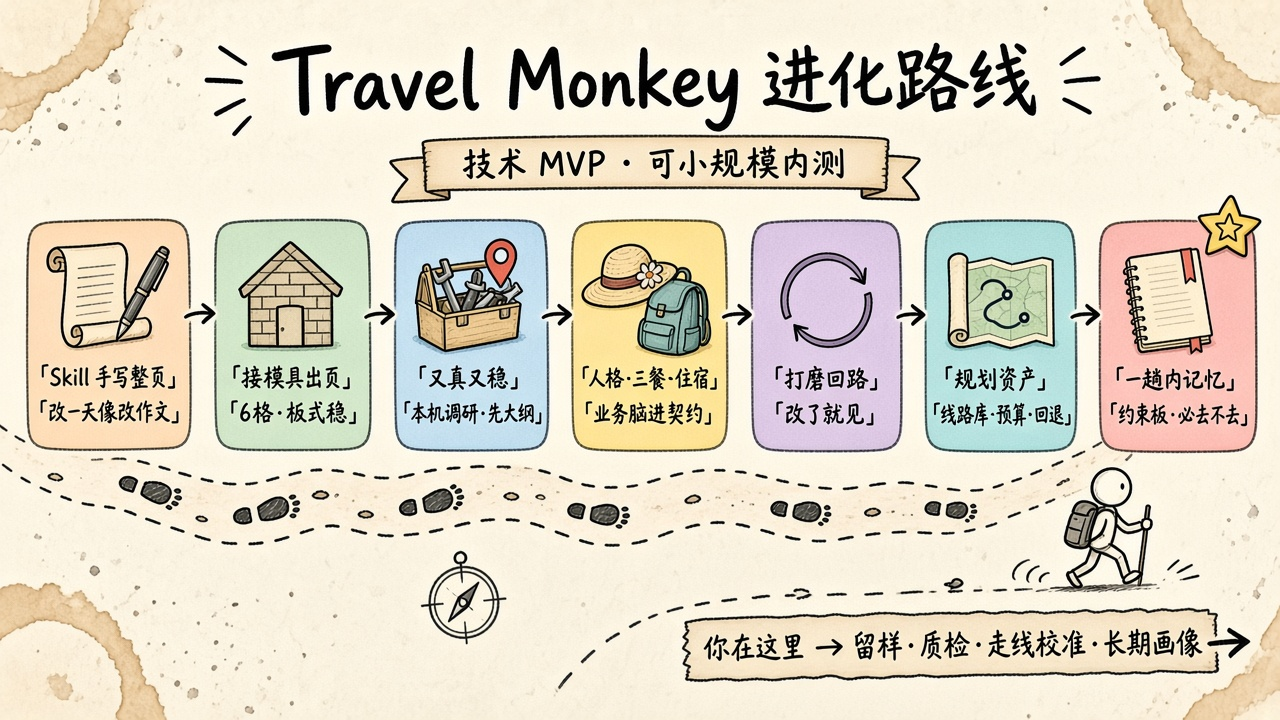
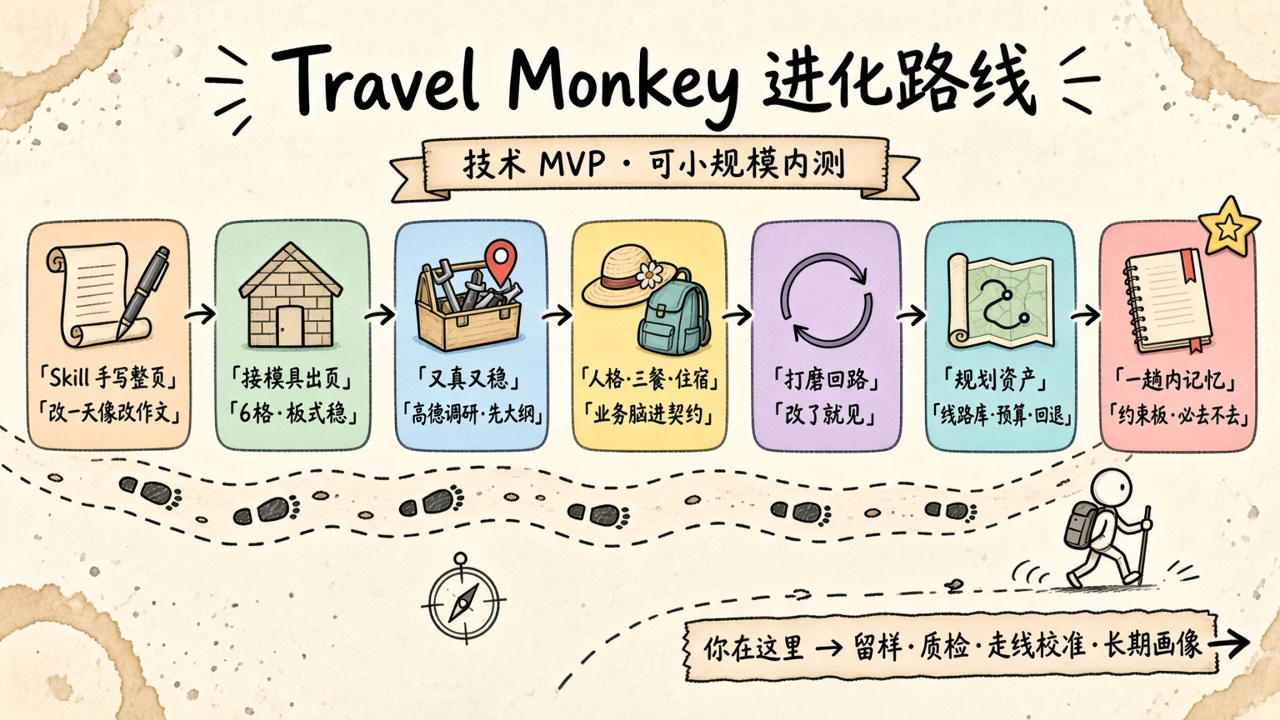
docs: 去掉易误读的「本机」，统一为程序 / 服务端 / 浏览器本地
路线图与 README 同步；CAPABILITY 补用词约定，说明程序不绑定开发者电脑。

diff --git a/docs/MEMORY.md b/docs/MEMORY.md
@@ -25,7 +25,7 @@
 
 | 锚点 | 典型证据 |
 |---|---|
-| 高 | 以结构化事实（`trip` JSON）为唯一来源，每轮压成短摘要；可按天裁剪；按模式挂不同提示词；能本机落表就不打模型；上下文长度不随轮数线性增长 |
+| 高 | 以结构化事实（`trip` JSON）为唯一来源，每轮压成短摘要；可按天裁剪；按模式挂不同提示词；能用程序落表就不打模型；上下文长度不随轮数线性增长 |
 | 低 | 每轮塞全量历史或整页 HTML；旧版本点名混进历史导致改错；摘要里缺硬约束 |
 
 可上线门槛：8.0。
@@ -75,7 +75,7 @@
 
 - `trip` JSON 为唯一事实源，`digestTrip` 每轮压成短摘要，可按天裁（`opts.day`）。
 - 分模式提示词：PLAN / FILL / TALK / EDIT / LOOK，互不串台。
-- 调研只做一次，改天不重跑；能本机落表（同步、第 N 格、新增点）就不打模型。
+- 调研只做一次，改天不重跑；能用程序落表（同步、第 N 格、新增点）就不打模型。
 - 抱怨或「继续优化」时回放最近几句用户原话（`requestPack`）。
 - 版本回退：内存近 10 版，`localStorage` 近 5 版。
 
@@ -93,7 +93,7 @@
 依据：
 - `src/lib/session.ts`：IndexedDB `travel-monkey`，`sessions` 表存全量、`meta` 表只存列表项；当前会话 ID 记在 `localStorage` 的 `ct.session`；无痕模式打不开库时退化为只在内存。
 - `src/App.tsx`：启动时按 `ct.session` 恢复对话（丢掉生成中的半截气泡）、大纲、人格、调研、当前行程与页面、约束、版本；空闲 400ms 自动存，切换 / 新建前先立刻存一次；版本改存进会话（近 10 版），旧 `ct.versions` 首次存盘后删除；左栏会话条「历史下拉 + 新建行程 + 删除」。
-- `src/lib/memory.ts`：约束板九类（同行、身体、忌口、日期、天数、出发地、交通、住宿、预算），正则本机抽取，问句不抽，「第 N 天」不当天数；天数 / 日期 / 预算 / 出发地 / 交通只留最新，人数换新时「带老人」之类并存；封顶 12 条。
+- `src/lib/memory.ts`：约束板九类（同行、身体、忌口、日期、天数、出发地、交通、住宿、预算），用正则抽取，问句不抽，「第 N 天」不当天数；天数 / 日期 / 预算 / 出发地 / 交通只留最新，人数换新时「带老人」之类并存；封顶 12 条。
 - 注入：`runPlan` / `runFill` 在调研后插一对约束消息；`recentChat` 把约束块放在行程摘要前（覆盖 TALK / EDIT / 有行程的 LOOK）；无行程的 LOOK 也带。`EDIT_SYSTEM` 加可选 `facts`，`extractEnvelope` 透出，`runEdit` 合并。
 - 证据：golden 96/96（新增 23 条：抽取、合并、删除、模型 facts、会话判空与标题）；浏览器实测（mock 模型）三轮后第三次请求含「膝盖不好 / 不吃辣 / 6人 / 4天3晚」，刷新后 6 条气泡与 4 条约束原样恢复，新建后清空、切回后复原，删一条约束刷新后仍是删掉的。
 
@@ -105,7 +105,7 @@
 | 多轮会话管理 | 8.0 | +4.0：刷新不失忆、多会话可切可删；服务端会话（M7）未做 |
 | **均值** | **6.3** | 单机多会话可用；跨设备与长期画像不可用 |
 
-剩余缺口：3.2-2 窗口外的软偏好、3.2-5 不记人；本机正则只认常见说法（例如「我妈腿脚不便」能抽，「我妈不太能走」抽不到），靠模型 `facts` 补，但目前只有 EDIT 回 `facts`，PLAN 阶段没有模型补抽。
+剩余缺口：3.2-2 窗口外的软偏好、3.2-5 不记人；程序的正则只认常见说法（例如「我妈腿脚不便」能抽，「我妈不太能走」抽不到），靠模型 `facts` 补，但目前只有 EDIT 回 `facts`，PLAN 阶段没有模型补抽。
 
 ## 3c. 快照 · 2026-10-02（短期记忆冲 8：M4 + M5 + 否决 / 改口 / 补抽 / 多轮回归）
 
@@ -114,15 +114,15 @@
 | 差距 | 补法 | 落点 |
 |---|---|---|
 | 软偏好（「偏人文」「想拍日出」）大纲没写就丢 | PLAN / FILL 带「本趟用户之前说过的话」：只摘用户原话，点选答复只留选项，从新往旧装满约 600 字 | `src/lib/context.ts`（`userPack`） |
-| 否决过的点会回来 | 约束板加「必去 / 不去」；出大纲、出页后本机查（简称认全称：「熊猫基地」认得出「成都大熊猫繁育研究基地」），撞了自动打回一次；改表撞了在回执里提醒 | `src/lib/memory.ts`（`avoidHits` / `planAvoidHits` / `namesHitAvoid`）＋`App.tsx` |
+| 否决过的点会回来 | 约束板加「必去 / 不去」；出大纲、出页后程序查（简称认全称：「熊猫基地」认得出「成都大熊猫繁育研究基地」），撞了自动打回一次；改表撞了在回执里提醒 | `src/lib/memory.ts`（`avoidHits` / `planAvoidHits` / `namesHitAvoid`）＋`App.tsx` |
 | 约束只能加不能撤 | 认改口：「能吃辣了」「老人不去了」「不带老人」「不需要电梯」「还是去 X / 加上 X / 保留 X」；必去与不去互斥，后说的赢 | `extractDrops` / `dropFacts` / `mergeFacts` |
-| 抽取面窄 | 文本附件前 3000 字也抽；点选答复只抽「→」后的用户选项；PLAN / TALK 末尾约定「记下：k=v；作废=k:v」一行，本机解析后从显示里摘掉；EDIT 的 `facts` 支持 `drop` | `takeMemo` / `modelDrops`＋`server/skill-prompt.mjs`（`MEMO_RULE`） |
-| 窗口外没摘要 | 本机滚动摘要：窗口外只留用户原话和「已写入页面」的改动，从新往旧装满约 300 字，放在约束块后、行程摘要前；从持久化的对话现算，不另存 | `earlierDigest` / `splitWindow` / `buildChatMessages` |
+| 抽取面窄 | 文本附件前 3000 字也抽；点选答复只抽「→」后的用户选项；PLAN / TALK 末尾约定「记下：k=v；作废=k:v」一行，程序解析后从显示里摘掉；EDIT 的 `facts` 支持 `drop` | `takeMemo` / `modelDrops`＋`server/skill-prompt.mjs`（`MEMO_RULE`） |
+| 窗口外没摘要 | 程序滚动摘要：窗口外只留用户原话和「已写入页面」的改动，从新往旧装满约 300 字，放在约束块后、行程摘要前；从持久化的对话现算，不另存 | `earlierDigest` / `splitWindow` / `buildChatMessages` |
 | 拼消息的逻辑测不到 | 抽成纯函数 `buildPlanMessages` / `buildFillMessages` / `buildChatMessages`，golden 按多轮脚本逐轮核对 | `src/lib/context.ts` |
 
 证据：
 - golden 121/121，新增 25 条多轮脚本：第 3 轮出大纲同时带硬约束和软偏好原话；否决的点全称也查得出、复述「不去」不误报；改口撤约束且「不带老人」不会反被记成「带老人」；「记下：」行摘掉并生效；附件备注、点选答复只抽用户选项；第 13 轮还记得第 1 轮说的店；50 轮后上下文长度不线性增长（< 1400 字）。
-- 浏览器实测（mock 模型）：大纲回复里的「记下：忌口=不吃香菜」不显示、上了约束板；说「不去熊猫基地」后模型大纲又排了「成都大熊猫繁育研究基地」，本机自动打回，最终显示的是换掉后的版本；「其实老人不去了」后「带老人」从约束板消失。3b 的刷新恢复、新建 / 切换、删约束回归全过。
+- 浏览器实测（mock 模型）：大纲回复里的「记下：忌口=不吃香菜」不显示、上了约束板；说「不去熊猫基地」后模型大纲又排了「成都大熊猫繁育研究基地」，程序自动打回，最终显示的是换掉后的版本；「其实老人不去了」后「带老人」从约束板消失。3b 的刷新恢复、新建 / 切换、删约束回归全过。
 
 | 子维度 | 分 | 变化 |
 |---|---|---|
@@ -132,11 +132,11 @@
 | 多轮会话管理 | 8.0 | 不变 |
 | **均值** | **6.5** | |
 
-\* 本机证据只能证明「该带的都发出去了」，证明不了「模型照做了」。M9 真模型留样过了才算正式跨到 8；留样前对外按 7.5 报。
+\* 本地测试的证据只能证明「该带的都发出去了」，证明不了「模型照做了」。M9 真模型留样过了才算正式跨到 8；留样前对外按 7.5 报。
 
 仍知的边界：
 - 正则仍只认常见说法（「我妈不太能走」抽不到），靠模型「记下：」行补，补不补取决于模型守不守约。
-- 滚动摘要是本机摘录，不是语义摘要：用户原话里有的能找回，只在模型长回复里出现过的店名找不回。
+- 滚动摘要是程序摘录，不是语义摘要：用户原话里有的能找回，只在模型长回复里出现过的店名找不回。
 - 简称认全称按「字按顺序都在」判断，3 字以上才启用；2 字的否决（「锦里」）只按包含判断。
 
 ---
@@ -148,14 +148,14 @@
 | 工作记忆 | `trip` JSON | 会话内 | `digestTrip`（已有） |
 | 会话约束 | 本趟硬约束：人数、同行、忌口、身体、预算、出发地、日期、交通、住宿偏好 | 会话内，结构化 `constraints[]` | 每轮固定放在最前，约 100 字 |
 | 会话历史 | 对话、大纲、调研、版本、阶段 | IndexedDB；上云后放服务端 | 最近几条原文 + 更早部分的滚动摘要 |
-| 长期画像 | 人格、忌口、住宿档位、常住片区 | 本机；有账号后放数据库 | 新行程开始时注入；用户确认才写 |
+| 长期画像 | 人格、忌口、住宿档位、常住片区 | 浏览器本地；有账号后放数据库 | 新行程开始时注入；用户确认才写 |
 
 原则：
 
 1. **事实结构化，不靠原文**。约束写成「类别 + 值 + 来源」，不是把用户原话塞进去。
 2. **每轮都带，但很短**。约束块封顶 16 条、按类别一行。
 3. **用户能看、能删**。约束和画像都要在界面上露出来，删了就不再进上下文。
-4. **本机抽取兜底，模型抽取补充**。正则先抽常见项（零成本、可测）；模型在已有 JSON 回复里顺手回 `facts`，不另起一轮。
+4. **程序抽取兜底，模型抽取补充**。正则先抽常见项（零成本、可测）；模型在已有 JSON 回复里顺手回 `facts`，不另起一轮。
 5. **宁少勿错**。抽不准的不记；一次性的事不进长期画像。
 
 ---
@@ -164,7 +164,7 @@
 
 | 框架 | 结论 | 理由 |
 |---|---|---|
-| LangChain | 不用 | 它的对话记忆解决「把历史拼进提示词」，本项目已用领域摘要做得更好；核心价值在本机规则、校验、落表，框架帮不上，反而加依赖。服务端是零框架 `.mjs`，部署简单是优点 |
+| LangChain | 不用 | 它的对话记忆解决「把历史拼进提示词」，本项目已用领域摘要做得更好；核心价值在程序规则、校验、落表，框架帮不上，反而加依赖。服务端是零框架 `.mjs`，部署简单是优点 |
 | LangGraph | 现在不用，满足条件再上 | 流程本身就是状态图（调研 → 大纲 → 待确认 → 填表 → 校验 → 修表 → 改稿循环），检查点 / 中断 / 线程正好对应会话持久化 / 等用户确认 / 多会话。但当前编排在浏览器，模型不调工具，硬套只是换写法 |
 | 向量库 | 现在不用 | 画像是十几个结构化字段；向量检索留给线路库召回 |
 
@@ -184,9 +184,9 @@
 |---|---|---|---|---|---|
 | M1 | **会话持久化**：`Session { id, stage, bubbles, trip, html, planDraft, persona, research, constraints, versions }` 存 IndexedDB，状态变化即存，打开页面恢复最近一次会话 | 3.2-3、3.2-6 | 刷新后对话、大纲、调研、当前页、版本、约束都在，阶段不变；旧 `ct.versions` 自动迁入 | 多轮 4→7 | ✓ 10-02 |
 | M2 | **多会话**：新建行程、历史行程切换、删除 | 3.2-4 | 新建不刷新；切换后各自状态独立；删除即清 | 多轮 7→8 | ✓ 10-02 |
-| M3 | **约束板**：本机抽取 + 模型在 EDIT 回复里带 `facts`；每轮（PLAN / FILL / TALK / EDIT / LOOK）注入；界面可见可删 | 3.2-1、3.2-2 | 第一轮说「膝盖不好、不吃辣、6 个人」，第三轮改天数，发给模型的消息里三条都在；删掉一条后不再出现；golden 覆盖抽取与合并 | 短期 5→7，上下文 7.5→8 | ✓ 10-02 |
+| M3 | **约束板**：程序抽取 + 模型在 EDIT 回复里带 `facts`；每轮（PLAN / FILL / TALK / EDIT / LOOK）注入；界面可见可删 | 3.2-1、3.2-2 | 第一轮说「膝盖不好、不吃辣、6 个人」，第三轮改天数，发给模型的消息里三条都在；删掉一条后不再出现；golden 覆盖抽取与合并 | 短期 5→7，上下文 7.5→8 | ✓ 10-02 |
 | M4 | **规划阶段带用户原话**：PLAN 带上本趟用户说过的话（只要用户的，不要模型长文），封顶约 600 字 | 3.2-1 | 约束板之外的软偏好（「想拍日出」）在改大纲时不丢 | 短期 7→7.5 | ✓ 10-02（另补否决 / 改口 / 补抽，见 3c） |
-| M5 | **滚动摘要**：窗口外部分压成短摘要（本机摘录版：用户原话 + 已落页改动，约 300 字，从持久化对话现算） | 3.2-2 | 第 10 轮问「我前面说的那家店」能答上；上下文长度不随轮数线性涨 | 短期 7.5→8 | ✓ 10-02（本机版；语义摘要待 M9 留样后再定） |
+| M5 | **滚动摘要**：窗口外部分压成短摘要（程序摘录版：用户原话 + 已落页改动，约 300 字，从持久化对话现算） | 3.2-2 | 第 10 轮问「我前面说的那家店」能答上；上下文长度不随轮数线性涨 | 短期 7.5→8 | ✓ 10-02（程序版；语义摘要待 M9 留样后再定） |
 | M6 | **长期画像**：行程结束或手动「记住我」时，用户确认后写入人格、忌口、档位、常住片区；新行程开场注入；可看可删 | 3.2-5 | 新建行程不再问人格（已记住时）；删画像后不再注入；一次性约束不进画像 | 长期 2→6 | ○ |
 | M7 | **服务端会话服务**（部署腾讯云前）：编排从 `App.tsx` 抽到服务端，接口按会话 ID；前端只展示 | 为上云与 LangGraph 铺路 | 两台浏览器同账号看到同一会话；服务重启不丢 | 多轮 8→9 | ○ |
 | M8 | **评估是否迁 LangGraph**：按第 5 节触发条件复核 | — | 写结论进本文快照 | — | ○ |

diff --git a/docs/EVAL.md b/docs/EVAL.md
@@ -24,7 +24,7 @@
 
 ## 评测对象
 
-- **产品**：Travel Monkey（仓库目录 `travel-monkey-agent`）——行程页生产工作台：模型填 trip JSON，本机调研、交通、配图、主题、校验。
+- **产品**：Travel Monkey（仓库目录 `travel-monkey-agent`）——行程页生产工作台：模型填 trip JSON，程序负责调研、交通、配图、主题、校验。
 - **阶段标签**：技术 MVP / 内部 Demo；尚未进入人格化产品期。
 - **总判断**：骨架强，业务脑弱。路径、景点、三餐、住宿是四件独立业务；住宿不是餐饮附属。
 
@@ -152,7 +152,7 @@
 
 必须同时回答：
 
-1. **工程**：6 格模具、模型填表、本机工具——是否省 token、可校验、可分享。
+1. **工程**：6 格模具、模型填表、程序工具——是否省 token、可校验、可分享。
 2. **产品**：同一套观光日是否服务得了三类人；住宿是否被当成餐饮附属；能力写在渲染层还是规划契约。
 3. **业务**：四件业务是否各有字段，还是挤进 6 格凑数。
 
@@ -243,7 +243,7 @@
 ### 下一阶段杠杆（复评时对照是否还成立）
 
 1. P0 规划人格（旅居 / 带队 / 探秘）+ 入住规则 — **PLAN/FILL 契约已落地人格**（入住规则未做）  
-2. P0 三餐一等公民（强制早/午/晚）— **契约 + 本机补齐已落地，分数待复评**  
+2. P0 三餐一等公民（强制早/午/晚）— **契约 + 程序补齐已落地，分数待复评**  
 3. P0 住宿一等公民（片区对齐 stay；适老 / 连住 / 集合点）  
 4. P1 线路标签与按人格选交通  
 5. P2 顾问式对话；配图只保名点，酒店图与名点图分开  
@@ -317,7 +317,7 @@
 
 | 维度 | 当前 | 变化 | 勾上的锚点 |
 |---|---|---|---|
-| 标准化 | 8.0 | 持平 | golden 回归集是稳定性证据；质检清单仍薄，FILL 字段靠本机补，暂不加分 |
+| 标准化 | 8.0 | 持平 | golden 回归集是稳定性证据；质检清单仍薄，FILL 字段靠程序补，暂不加分 |
 | 旅行专业性 | 6.5 | ↑1.0 | 线路库 20 条全有代表性/难度分，FILL 强引用（代表性≥4 星必看不漏） |
 | 实用性 | 7.2 | ↑0.4 | 无 Key 诚实降级（模型记忆参考＋设置页注记）；版本持久化＋下拉回退 |
 | 稳定性 | 7.5 | ↑0.7 | golden 18 项离线可跑；城际段不再按邻点步行硬算 |
@@ -348,8 +348,8 @@
 
 ### 补丁健壮性专轮备注（2026-09-30 深夜，不改分）
 - 前一轮修的是"话被送错车道"，这一轮是"车到了但货卸不下来"：改表只认 `{day,slot,set:{name}}` 一种形状。模型把值平铺成 `{day,slot,name}`（极常见）→ 判「没有 set」整条丢弃；餐、规划条同病。
-- 更要命的一类：模型只回一句「我已经把第二天的人头山换成翠华山了」而不给补丁。本机照实什么都不改，还把模型那句假话原样转给用户——"模型输出了结果、页面没更新"的完整成因。
-- 三层修：①平铺补丁照收（`liftSet`）；②模型口头声称/反问/回纯文本时，按用户原话本机兜底改（`inferEditFrom`）；③一个补丁都没落地时不转述「已改好」（`stripEditClaim`），只说「这次没有改到页面上」并给可用句式。顺带修掉 `把day2的人头山换成X` 里定位词带「的」导致找不到格子的老问题。
+- 更要命的一类：模型只回一句「我已经把第二天的人头山换成翠华山了」而不给补丁。程序照实什么都不改，还把模型那句假话原样转给用户——"模型输出了结果、页面没更新"的完整成因。
+- 三层修：①平铺补丁照收（`liftSet`）；②模型口头声称/反问/回纯文本时，按用户原话程序兜底改（`inferEditFrom`）；③一个补丁都没落地时不转述「已改好」（`stripEditClaim`），只说「这次没有改到页面上」并给可用句式。顺带修掉 `把day2的人头山换成X` 里定位词带「的」导致找不到格子的老问题。
 - 按纪律：bugfix 不加分。但"改表对模型输出格式的容错"是 EDIT 链能不能用的底线，golden 41→49 全覆盖。
 
 ### 意图路由专轮备注（2026-09-30 晚，不改分）
@@ -360,12 +360,12 @@
 
 ### 改天必见专轮备注（2026-09-30，不改分）
 - 根因：`normalizeTrip` 的 overview 只建不刷——首轮进 trip state 后，改某天格子只变 days，顶部"线路/景点/入住/餐饮"卡片永远旧名；气泡却照说"已写入页面"（补丁确实进了表）。现每次从 days 全量重建，复现脚本已验证。
-- 同轮诚实化：`commitEdit` 验货（新名不在 HTML 里就降级失败）、`runPhotos` 换图前后 URL 对比（没换成不说已补）、本地 kind 句式（D1住宿改成X 不走模型）。golden 21→27。
+- 同轮诚实化：`commitEdit` 验货（新名不在 HTML 里就降级失败）、`runPhotos` 换图前后 URL 对比（没换成不说已补）、程序识别 kind 句式（D1住宿改成X 不走模型）。golden 21→27。
 - 按纪律：bugfix 专轮不加分；但"改后页面必见"是体验 6.2 可信度的前置，不修后面的分都虚。
 
 ### 附件与看图专轮备注（2026-10-01，不改分）
-- 新增能力两件：①输入框收图片/文本附件（粘贴、拖拽、选文件）；②图片真送给模型看（`look` 模式，本机图内联 base64，OpenAI／Anthropic 两种报文都验过）。
-- 关键设计是**分流**，不是"把图一律丢给模型"：「D2第2格用这张图」走本机直贴，不花钱不走网络；「这是哪／图里写的什么」才烧 token。说不清时默认贴图（本机再问一句，成本更低）；页面还没出来时图没处贴，才默认送模型。
+- 新增能力两件：①输入框收图片/文本附件（粘贴、拖拽、选文件）；②图片真送给模型看（`look` 模式，服务端存的图内联 base64，OpenAI／Anthropic 两种报文都验过）。
+- 关键设计是**分流**，不是"把图一律丢给模型"：「D2第2格用这张图」走程序直贴，不花钱不走网络；「这是哪／图里写的什么」才烧 token。说不清时默认贴图（程序再问一句，成本更低）；页面还没出来时图没处贴，才默认送模型。
 - 诚实度延续前几轮：`LOOK_SYSTEM` 强制分清「看得见的」（招牌、路牌、票面）和「推测的」并写明把握，认不出就说认不出，禁止硬凑景点名；看图这轮明说不动页面，不许再出现"说改了其实没改"。选了不认图的型号直接拦下并点名替代，不白烧一轮。
 - 顺带还债：`src/lib/target.ts` 的 `Day` 类型一直是 `NonNullable<Trip['days']>[number]`，而 `Trip` 带索引签名 → 推成 `{}`，14 条类型报错长期被漏看（之前几轮的"tsc 干净"只扫了改动文件，没覆盖这个文件，是我核查范围的疏漏）。现全项目 `tsc --noEmit` 0 报错。
 - 按纪律：新增输入通道**不对应任何一条已列锚点**（质检清单／走线校准／跨会话记忆／当日陪伴），按"跨档才改分、一次只推一维"不动快照。golden 49→67。
@@ -375,7 +375,7 @@
 - 按纪律：工程还债，不对应任何锚点，不改分。
 
 ### 会话与记忆专轮备注（2026-10-02，不改分）
-- 会话存 IndexedDB（刷新接着上次，可新建 / 切换 / 删除）；本趟约束板（硬约束＋必去 / 不去，可看可删，每轮注入所有模式）；出大纲带用户原话；窗口外本机滚动摘要；认改口；撞「不去」本机自动打回。详细分数与证据在 [MEMORY.md](./MEMORY.md) 3b / 3c：短期记忆 5.0→8.0\*（\* 待 M9 真模型留样，留样前按 7.5 报），多轮会话 4.0→8.0。golden 73→121。
+- 会话存 IndexedDB（刷新接着上次，可新建 / 切换 / 删除）；本趟约束板（硬约束＋必去 / 不去，可看可删，每轮注入所有模式）；出大纲带用户原话；窗口外程序滚动摘要；认改口；撞「不去」程序自动打回。详细分数与证据在 [MEMORY.md](./MEMORY.md) 3b / 3c：短期记忆 5.0→8.0\*（\* 待 M9 真模型留样，留样前按 7.5 报），多轮会话 4.0→8.0。golden 73→121。
 - 为什么本文不改分：下面第 3 条锚点要的是**跨行程**记住人格 / 忌口 / 档位（MEMORY M6），本轮做的是**一趟行程内**不忘，没勾上那条。体验分的「改了还记得」确有改善，但按「跨档才改分」等 M6 一起申报。
 
 ### 还没勾上的锚点（下一轮申报方向）

diff --git a/README.md b/README.md
@@ -4,9 +4,9 @@
 
 新行程先定人格（旅居 / 带队 / 探秘），再出短计划，确认后再出页。每天强制早餐、午餐、晚餐。每个住宿片区推荐经济 / 中档 / 高端各一家（参考，不能代订）。配图先高德店图（店名对得上才用），没有再百度/维基公开检索，对不上就留空。高德补坐标、天气和点到点导航；飞猪**不能代订**。换皮用本地主题包，校验失败回退陶土模具。
 
-1. **新行程**：先选人格，本机调研一次（高德 / 搜索）。模型先写短计划（含早/午/晚）。
+1. **新行程**：先选人格，服务端调研一次（高德 / 搜索）。模型先写短计划（含早/午/晚）。
 2. 点 **确认出页**（或说「确认出页」）才填 trip JSON 并渲染。每天 `dining` 必须有三餐。继续打字则改计划，不重调研。
-3. 本机按目的地选一套主题皮，叠在模具上。`validateAll` 失败回退陶土宣纸。
+3. 程序按目的地选一套主题皮，叠在模具上。`validateAll` 失败回退陶土宣纸。
 4. 有高德 Key 时，出页后补相邻点交通，并用官方 `uri.amap.com` 导航链接（不手拼飞猪预订链）。
 5. **改某一天**：不重规划、不重调研、不换皮。点「换皮」只重渲染。
 
@@ -24,9 +24,9 @@ npm run dev
 
 运行时不再依赖仓库外的目录。`vendor/mold` 是 travel-plan-viz 的完整副本（出页脚本、校验、坐标、契约、调研/美学/移植说明、样例页、种子 JSON、单测），许可见 `vendor/mold/LICENSE`（Copyright 2026 zexuanw958-svg，MIT）。种子页在 `seed/shudao-zhongqiu.html`，配图在 `travel-assets/xian/`。用户粘贴的图片写入 `travel-assets/uploads/`，不进版本库。
 
-## 密钥（都只存在本机）
+## 密钥（都只存在浏览器本地）
 
-- **模型 API Key**：经 `/api/chat` 转发
+- **模型 API Key**：每次请求随 `/api/chat` 带给服务端转发，服务端不落盘
 - **高德 Web 服务 Key**（可选）：地理编码 / POI / 天气 / 步行或公交路线；坐标转 WGS-84
 - **Tavily 或 Serper Key**（可选）：航班、酒店、时令公开页摘要。没有飞猪官方预订接口，不会代下单
 
@@ -46,4 +46,4 @@ npm run dev
 
 ## 评测与能力沉淀
 
-尺子和当前得分见 [docs/EVAL.md](docs/EVAL.md)；上下文、记忆与多轮会话的专项标准和待办见 [docs/MEMORY.md](docs/MEMORY.md)。改动脉络、Prompt/Skill/本机工具/第三方能力，以及它们分别服务体验、意图、对话持续、长期沉淀，见 [docs/CAPABILITY.md](docs/CAPABILITY.md)。复评用 Skill [changting-eval](.cursor/skills/changting-eval/SKILL.md)。
+尺子和当前得分见 [docs/EVAL.md](docs/EVAL.md)；上下文、记忆与多轮会话的专项标准和待办见 [docs/MEMORY.md](docs/MEMORY.md)。改动脉络、Prompt/Skill/程序工具/第三方能力，以及每项能力推动 EVAL 哪一维、是否成为资产，见 [docs/CAPABILITY.md](docs/CAPABILITY.md)。复评用 Skill [changting-eval](.cursor/skills/changting-eval/SKILL.md)。
